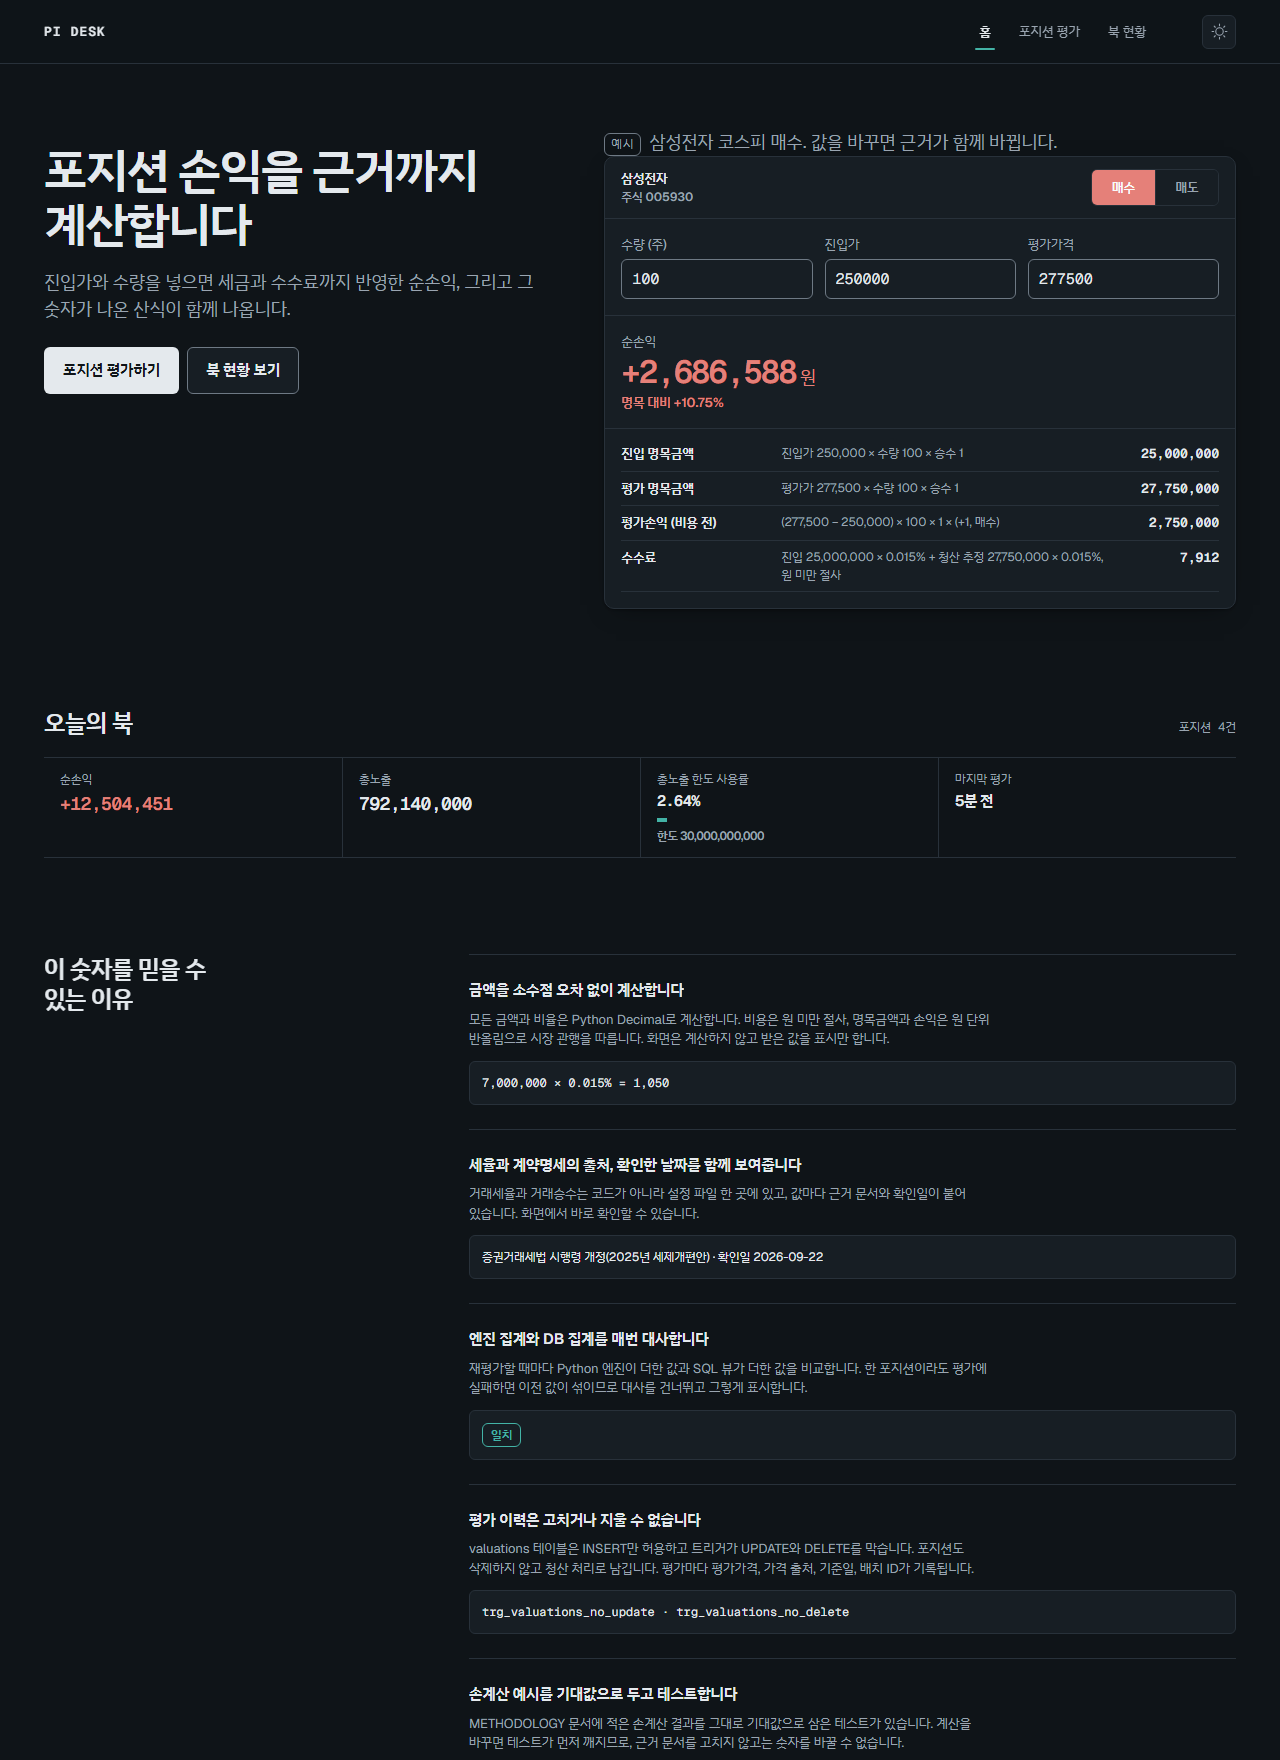
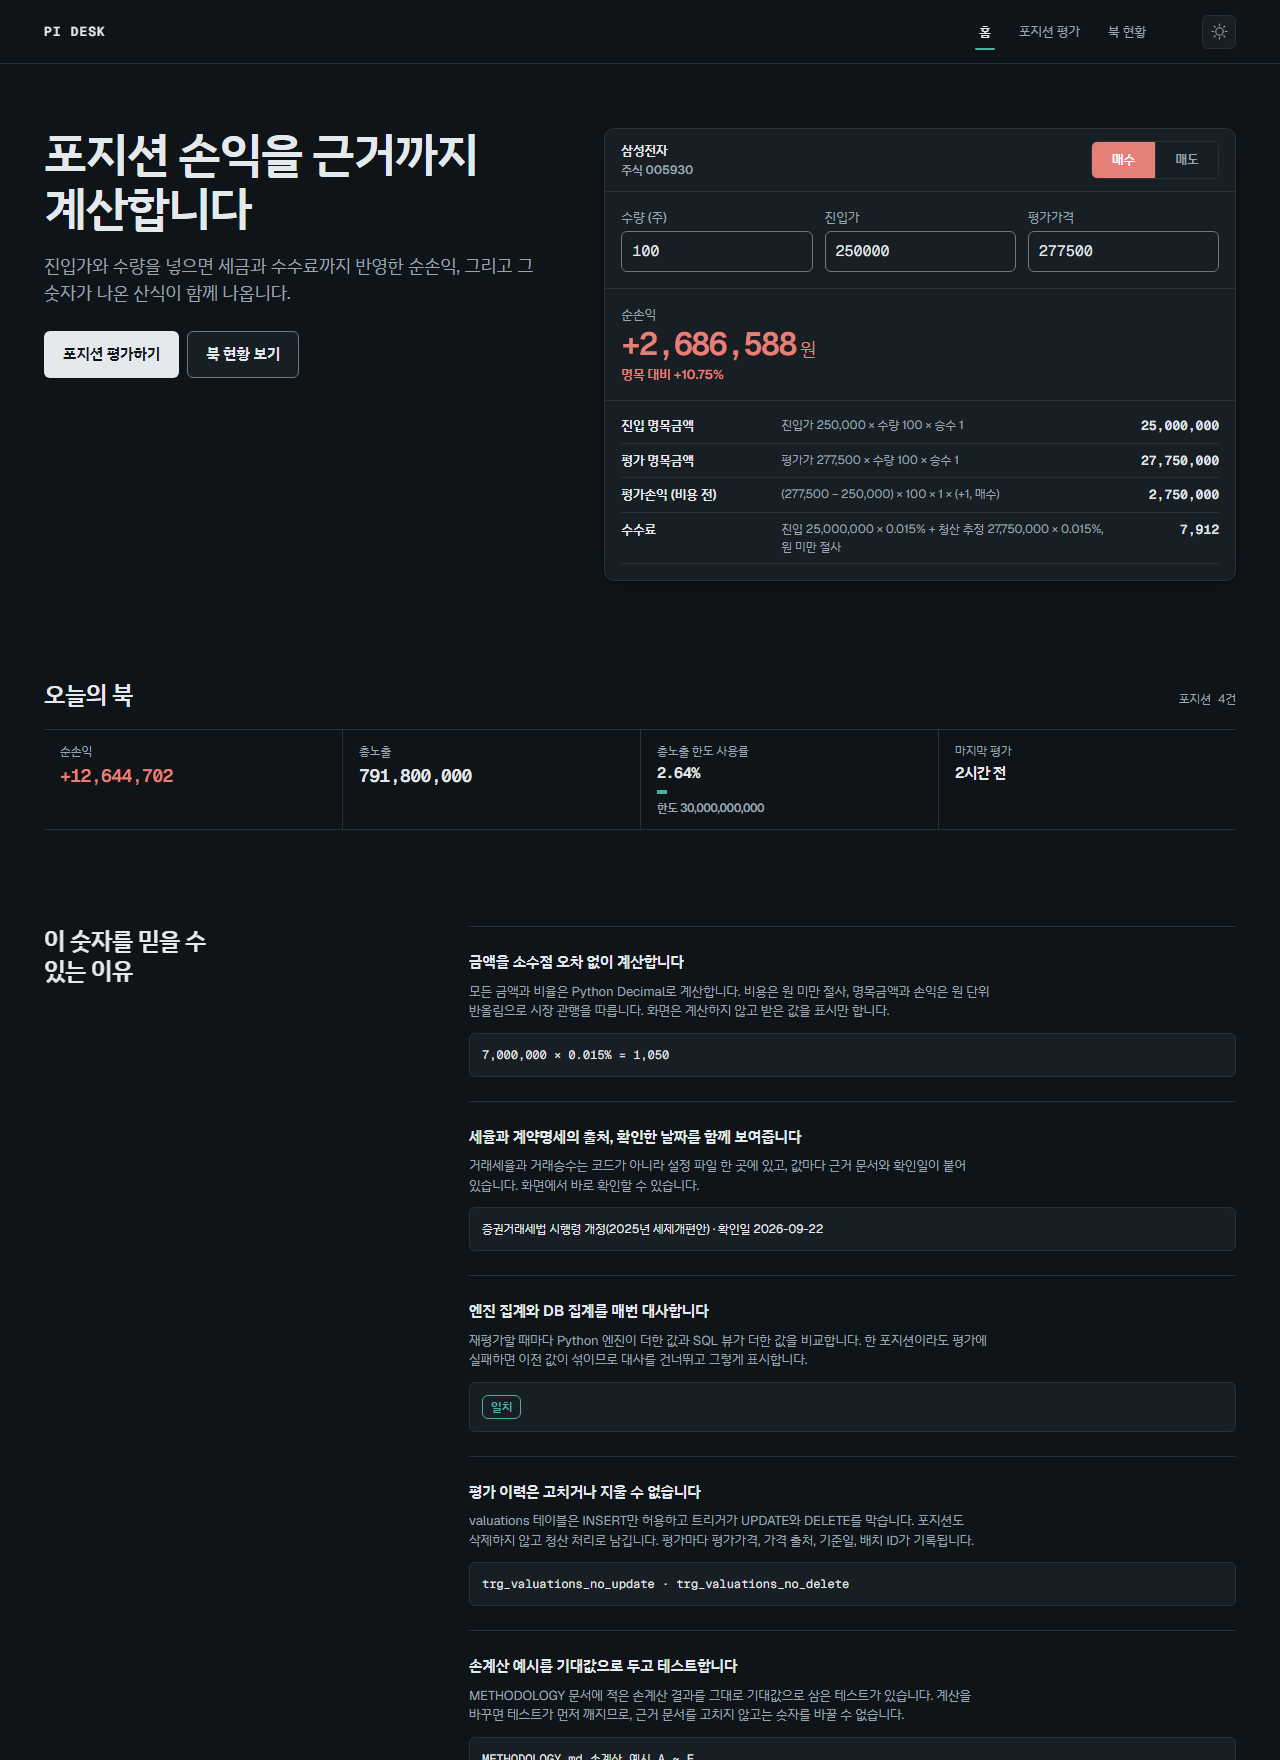
문서: README를 핵심 위주로 간결하게 다시 쓰고 홈 스크린샷 갱신
- 데모 주소 추가, 기능 나열 대신 목적·할 수 있는 일·신뢰 근거 중심으로 정리
- 배포 환경변수, 수동 실행, 마이그레이션 등 세부 절차는 제거
- 로드맵을 "다루지 않는 것"으로 대체 (프로젝트 종료)
- 예시 안내 줄이 빠진 현재 홈 화면으로 스크린샷 4장 교체

diff --git a/README.md b/README.md
@@ -1,288 +1,58 @@
 # PI 데스크 포지션 평가 엔진
 
-증권사 자기매매(PI) 포지션의 시가평가·손익·거래비용·리스크 한도를 계산하고,
-모든 결과 숫자 옆에 산식과 대입값을 함께 보여주는 웹 도구입니다.
+증권사 자기매매(PI) 데스크의 포지션을 넣으면 손익과 거래비용, 리스크 한도 사용률을 계산하고
+**모든 숫자 옆에 그 숫자가 나온 산식과 대입값을 함께 보여주는** 웹 도구입니다.
+
+**데모:** https://frontend-wongihong.vercel.app
+(무료 서버라 한동안 접속이 없었다면 깨어나는 데 최대 1분 걸립니다)
 
 ![홈 화면](docs/screenshots/home-desktop-light.png)
 
-## 주요 기능
-- **체결 기반 포지션 관리**: 포지션을 직접 만들지 않고 체결을 쌓으면 평균단가와 실현손익이 따라온다.
-  분할 매수, 부분 청산, 방향 전환이 자연스럽게 처리된다(이동평균법)
-- **종목 상세**: 체결 이력과 평균단가가 어떻게 움직였는지 한 줄씩. 값은 체결 시점에 저장된 것이다
-- **일별 스냅샷**: 하루 한 번 저장하고 손익 추이를 본다. 덮어쓰지 않으며, 다시 찍으면 정정본이 새 행으로 남는다
-- **주식·선물 포지션 평가**: 평가손익, 수수료, 2026년 기준 증권거래세, 순손익, 수익률, 선물 증거금
-- **계산 근거 표**: 각 단계의 산식·대입값·결과를 한 줄씩 표시. 좁은 화면에서도 숨기지 않습니다
-- **근거 추적**: 계산 근거 줄에 마우스를 올리거나 키보드로 포커스하면, 그 값이 쓴 입력 칸과
-  적용된 설정값이 전표에서 함께 강조됩니다. 반대 방향도 동작합니다.
-  의존 관계는 엔진이 `TraceStep.inputs`로 알려주고 화면은 추측하지 않습니다
-- **실시간 평가**: 전표 입력이 유효해지면 자동으로 다시 계산합니다. `평가하기`는 명시적 재평가용입니다
-- **북 현황**: 포지션 저장, 일괄 재평가(주식은 무료 시세 자동 조회), 총노출·순노출, 한도 점검
-- **한도 사용률**: 총노출·손실·단일 포지션 한도 대비 사용률. 백엔드가 Decimal로 계산합니다
-- **엔진·SQL 대사**: Python 집계와 SQL 뷰 집계가 일치하는지 매번 자동 확인
-- **감사추적**: 평가 이력은 수정·삭제 불가(DB 트리거)
-- **라이트·다크 모드**: 시스템 설정을 따르고 수동 전환도 됩니다. 두 모드 모두 WCAG AA 대비를 지킵니다
+## 왜 만들었나
 
-## 기술 스택
-Python · FastAPI · SQLite(직접 SQL, 윈도 함수 뷰) · pykrx · pytest
-React 19 · TypeScript · Vite · Motion · Phosphor Icons · 네이티브 CSS 토큰(Tailwind 없음)
+평가 도구가 내놓는 숫자는 "왜 이 값인가"에 답할 수 있어야 믿을 수 있습니다.
+이 도구는 예측이나 추천을 하지 않습니다. 주어진 포지션을 정해진 규칙대로 평가하고,
+그 과정을 누구나 따라가며 검산할 수 있게 보여주는 데 집중했습니다.
 
-## 실행 방법 (Windows)
+## 할 수 있는 일
 
-명령 두 개면 됩니다. Node 20.19+ 또는 22.12+ 가 필요합니다.
-
-```powershell
-npm install     # 루트 런처 의존성 (최초 1회)
-npm run setup   # 가상환경, 의존성, DB 이전, 예시 북까지 (최초 1회)
-npm run dev     # 백엔드와 프론트를 함께 실행
-```
-
-http://localhost:5173 에 접속합니다. **Ctrl+C 한 번으로 둘 다 종료됩니다.**
-
-출력에는 `api`와 `web` 접두사가 붙어 어느 쪽 로그인지 바로 구분됩니다.
-한쪽이 죽으면 다른 쪽도 함께 내려갑니다.
-
-`npm run setup`은 이미 되어 있는 단계를 건너뜁니다. 여러 번 실행해도 안전합니다.
-
-| 명령 | 하는 일 |
-|---|---|
-| `npm run setup` | 가상환경 생성, pip install, frontend 의존성, DB 이전, 예시 북 시드 |
-| `npm run dev` | 백엔드(8000)와 프론트(5173)를 함께 실행 |
-| `npm run check` | 테스트, 빌드, 린트를 한 번에 |
-| `npm run seed` | 예시 북 다시 만들기 |
-| `npm run migrate` | 기존 DB를 체결 기반 구조로 이전 |
-
-### 알아두면 좋은 것
-
-**프론트는 백엔드가 뜬 뒤에 시작합니다.** 그러지 않으면 첫 화면이 프록시 오류로
-"백엔드에 연결하지 못했습니다"를 띄우고 새로고침해야 합니다.
-`npm run dev`가 백엔드 포트를 기다렸다가 프론트를 올립니다.
-
-**이전에 남은 개발 서버가 있으면 자동으로 정리합니다.** `uvicorn --reload`는 감시
-프로세스와 작업 프로세스를 따로 띄우는데, 터미널이 강제로 닫히면 작업 프로세스가
-포트를 쥔 채 남습니다. 그 상태로 다시 실행하면 백엔드가 "address already in use"로
-뜨지 않습니다. `npm run dev`가 실행 전에 이 경우를 확인하고 정리합니다.
-다른 프로그램이 포트를 쓰고 있으면 건드리지 않고 무엇인지 알려만 줍니다.
-
-**프로젝트 경로에 공백이 있어도 됩니다.** 실행 파일 경로를 셸 문자열로 조립하지 않고
-Node가 인자 배열로 직접 넘기기 때문입니다(`scripts/run-python.mjs`).
-
-### 수동 실행 (터미널 두 개)
-
-런처 없이 각각 띄우려면 이렇게 합니다.
-
-```powershell
-# 터미널 1 - 백엔드
-cd backend
-py -3 -m venv .venv
-.venv\Scripts\python -m pip install -r requirements.txt
-.venv\Scripts\python -m pytest
-.venv\Scripts\python -m uvicorn app.main:app --reload --port 8000
-
-# 터미널 2 - 프론트
-cd frontend
-npm install
-npm run dev
-```
-
-> Windows에서 `python` 과 `python3` 는 Microsoft Store 스텁일 수 있습니다.
-> 실행은 되지만 아무 일도 하지 않고 끝납니다. 가상환경을 만들 때는 `py -3` 을 쓰세요.
-> `npm run setup` 은 이 경우를 스스로 판별합니다.
-
-## 시연용 예시 북 만들기
-
-`npm run setup` 이 이미 한 번 실행합니다. 북을 다시 만들고 싶을 때 쓰는 명령입니다.
-빈 화면 대신 포지션이 채워진 상태를 보려면 시드 스크립트를 실행합니다.
-FastAPI TestClient로 앱을 프로세스 안에서 호출하므로 **서버를 띄우지 않아도 되고**,
-요청이 실제 API를 그대로 지나가 호가단위 검증 같은 규칙이 모두 적용됩니다.
-
-```powershell
-npm run seed
-```
-
-삼성전자를 두 번에 나눠 사고(평균단가 274,400) 일부를 되팔아 **실현손익이 생긴 상태**를 만듭니다.
-여기에 코스닥 주식 매도, 코스피200 선물 매도, 미니 코스피200 선물 매수를 더해
-재평가와 스냅샷을 한 번씩 실행합니다. 이미 열린 포지션이 있으면 아무것도 하지 않으므로
-여러 번 실행해도 안전합니다. 초기화하려면 `backend/data/trading.db`를 지우고 다시 실행하세요.
-
-> **체결가와 선물 평가가격은 예시값입니다.** 실제 체결가나 정산가가 아닙니다.
-> 주식 평가가격만 무료 시세(pykrx → FinanceDataReader)에서 실제 종가를 받아옵니다.
-> 이 북은 화면을 보여주기 위한 것이지 손익을 주장하기 위한 것이 아닙니다.
-
-## 화면
-
-전표에 값을 넣으면 순손익과 함께 **그 숫자가 나온 산식**이 오른쪽에 그대로 나옵니다.
-아래는 삼성전자 100주를 250,000에 사서 277,500에 평가한 경우입니다.
-
-| | 라이트 | 다크 |
-|---|---|---|
-| 포지션 평가 | ![](docs/screenshots/valuation-desktop-light.png) | ![](docs/screenshots/valuation-desktop-dark.png) |
-| 북 현황 | ![](docs/screenshots/book-desktop-light.png) | ![](docs/screenshots/book-desktop-dark.png) |
-
-북 현황에서는 **확정(실현손익)과 미확정(평가손익)을 그룹 헤더와 1px 세로선으로 갈라** 둡니다.
-성격이 다른 숫자라 한데 섞이면 안 되기 때문입니다.
-
-### 근거 추적
-
-계산 근거 줄에 마우스를 올리거나 키보드로 포커스하면, 그 값이 쓴 입력 칸이 전표에서 함께 강조됩니다.
-아래는 `거래세 (KOSPI)` 줄을 잡은 모습입니다. 시장·수량·평가가격·방향이 강조되고
-**진입가는 강조되지 않습니다.** 매수 포지션의 거래세는 청산 매도 대금(평가가격) 기준이기 때문입니다.
-이 구분은 화면이 짐작한 것이 아니라 엔진이 `TraceStep.inputs`로 알려준 것입니다.
+- **포지션 평가:** 주식과 선물의 평가손익, 수수료, 증권거래세, 순손익을 계산합니다.
+- **근거 확인:** 계산 근거 줄을 짚으면 그 값에 쓰인 입력 칸이 함께 강조됩니다.
+- **체결로 쌓는 북:** 매매 체결을 입력하면 평균단가와 실현손익이 이동평균법으로 갱신됩니다.
+- **북 현황:** 전체 노출과 한도 사용률을 보고, 하루 한 번 스냅샷으로 손익 추이를 남깁니다.
 
 ![근거 추적](docs/screenshots/state-trace-highlight.png)
 
-### 체결 입력과 평균단가 미리보기
+위 화면은 `거래세` 줄을 짚은 모습입니다. 매수 포지션의 거래세는 팔 때의 금액(평가가격)에 붙기 때문에
+진입가는 강조되지 않습니다. 어떤 입력이 쓰였는지는 화면이 추측하지 않고 계산 엔진이 직접 알려줍니다.
 
-이미 보유 중인 종목이면 이번 체결 후 평균단가와 수량이 어떻게 되는지 입력 단계에서 보여줍니다.
-아래는 400주를 274,400에 들고 있는 상태에서 200주를 281,000에 더 사려는 경우로,
-평균단가가 **274,400에서 276,600으로** 올라갑니다.
-저장하지 않는 조회(`POST /api/trades/preview`)라 값을 고치는 동안 계속 갱신됩니다.
+## 숫자를 믿을 수 있는 이유
 
-![평균단가 미리보기](docs/screenshots/state-trade-preview.png)
+- 금액은 소수점 오차 없이 계산하고, 원 미만 처리는 시장 관행을 따릅니다.
+- 세율과 계약승수는 한 곳에 모아 두고 출처와 확인한 날짜를 함께 적었습니다.
+- 재평가할 때마다 두 가지 방식으로 합계를 따로 내어 서로 맞는지 확인합니다.
+- 평가 이력은 고치거나 지울 수 없습니다.
+- 테스트의 기대값은 문서에 적은 손계산 결과를 그대로 씁니다.
 
-### 방향 전환 안내
+## 직접 실행하기 (Windows)
 
-보유 수량을 넘는 반대 방향 체결은 거절하지 않고 **방향 전환**으로 처리합니다(이동평균법 규칙 3).
-다만 실수일 수 있으므로 청산되는 수량과 새로 생기는 수량을 입력 단계에서 알려줍니다.
-경고가 아니라 확인이므로 오류 색을 쓰지 않습니다.
-
-![방향 전환 안내](docs/screenshots/state-trade-flip.png)
-
-### 종목 상세: 평균단가가 어떻게 움직였나
-
-체결 한 건이 한 줄입니다. 분할 매수로 268,000에서 274,400이 되고,
-**부분 청산에서는 평균단가가 바뀌지 않는다**는 것이 그대로 보입니다(규칙 2).
-각 줄의 값은 그 체결 시점에 저장된 것이라 지금 다시 계산하지 않습니다.
-
-![종목 상세](docs/screenshots/state-position-detail.png)
-
-### 그 밖의 상태
-
-빈 북, 로딩 스켈레톤, 입력 오류, 엔진·SQL 대사 결과를 포함한 전체 스크린샷은
-[docs/screenshots](docs/screenshots)에 있습니다(3개 화면 x 1280/375 x 라이트/다크 + 상태 8종).
-
-입력 오류에는 **빨강을 쓰지 않습니다.** 이 앱에서 빨강은 매수와 이익을 뜻하므로
-빨간 오류 박스는 "이익"으로 오독될 여지가 있습니다. 오류와 경고는 오커 계열로 통일하고
-아이콘과 위치로 구분합니다.
-
-직접 다시 찍으려면 dev 서버를 띄운 상태에서 아래를 실행합니다(설치된 Chrome을 headless로 씁니다).
+Python 3.11 이상과 Node 20.19 이상이 필요합니다.
 
 ```powershell
-cd backend
-.venv\Scripts\python -m scripts.shoot_screenshots
-.venv\Scripts\python -m scripts.shoot_states
+npm install
+npm run setup   # 최초 1회: 가상환경, 의존성, 예시 데이터
+npm run dev     # http://localhost:5173
 ```
 
-빈 북과 로딩 스켈레톤은 **비어 있는 임시 DB를 띄운 백엔드**를 상대로 따로 찍습니다.
-화면에서 응답을 가로채 흉내 내지 않습니다. 가짜 데이터로 만든 화면을 문서에 싣지 않기 위해서입니다.
+예시 데이터의 체결가와 선물 가격은 화면을 보여주기 위한 값이며, 주식 시세만 무료 소스에서 실제 종가를 가져옵니다.
 
-## 배포
+## 더 보기
 
-프론트는 Vercel, 백엔드는 Render에 올리는 구조다. 도메인이 서로 다르므로
-프론트가 백엔드 주소를 환경변수로 받고, 백엔드는 그 도메인을 CORS로 허용한다.
+- [METHODOLOGY.md](METHODOLOGY.md): 산식, 세율 출처, 손계산 예시
+- [DESIGN.md](DESIGN.md): 색·글꼴·모션을 정한 이유
+- [docs/screenshots](docs/screenshots): 모든 화면과 상태 (라이트·다크, 데스크톱·모바일)
 
-```
-브라우저 → Vercel (정적 파일)  ──VITE_API_BASE_URL──→  Render (FastAPI + SQLite)
-                                  CORS: ALLOWED_ORIGINS
-```
+## 다루지 않는 것
 
-### 환경변수
-
-**프론트 (Vercel)**
-
-| 변수 | 값 | 설명 |
-|---|---|---|
-| `VITE_API_BASE_URL` | `https://<render-앱>.onrender.com` | 비워 두면 `/api` 상대경로를 쓴다(로컬 개발). 끝에 슬래시나 `/api`를 붙이지 않는다 |
-
-`frontend/.env.example`에 설명이 있다. 로컬에서 시험하려면 `.env.local`로 복사한다.
-
-**백엔드 (Render)**
-
-| 변수 | 기본값 | 설명 |
-|---|---|---|
-| `ALLOWED_ORIGINS` | `http://localhost:5173,http://127.0.0.1:5173` | CORS 허용 도메인, 쉼표 구분. Vercel 주소를 넣는다 |
-| `PORT` | `8000` | Render가 주입한다 |
-| `DEMO_MODE` | `false` | 켜면 화면 상단에 데모 안내를 띄우고 포지션 수에 상한을 건다 |
-| `DEMO_MAX_POSITIONS` | `50` | 데모 모드의 포지션 상한 |
-| `AUTO_SEED` | `DEMO_MODE`와 같음 | 시작할 때 DB가 비어 있으면 예시 북을 만든다 |
-| `TRE_DB_PATH` | `backend/data/trading.db` | DB 파일 경로 |
-
-환경변수를 하나도 주지 않으면 지금까지와 똑같이 로컬 개발 설정으로 동작한다.
-
-### Render
-
-`render.yaml`이 저장소 루트에 있다. 시작 명령은 다음과 같다.
-
-```
-uvicorn app.main:app --host 0.0.0.0 --port $PORT
-```
-
-Python 버전은 `backend/runtime.txt`와 `render.yaml`에 `3.12.8`로 고정했다.
-`ALLOWED_ORIGINS`는 Vercel 주소를 배포한 뒤에 Render 대시보드에서 채운다(미리 알 수 없다).
-
-### Vercel
-
-프로젝트 루트를 `frontend`로 지정하면 `npm run build`와 `dist` 가 자동으로 잡힌다.
-환경변수에 `VITE_API_BASE_URL`을 넣고 다시 배포한다.
-Vite는 빌드 시점에 값을 번들에 넣으므로, 값을 바꾸면 **다시 배포해야** 반영된다.
-
-### 무료 플랜에서 생기는 일
-
-**백엔드가 잠든다.** 15분쯤 요청이 없으면 Render 무료 플랜은 잠들고, 깨어나는 데
-최대 1분 걸린다. 그동안 화면이 비어 보이면 고장으로 오해하기 쉬우므로,
-앱이 먼저 `/api/health`를 호출해 깨우고 **"데모 서버를 깨우는 중입니다.
-최대 1분 걸릴 수 있습니다"** 를 띄운다. 실패하면 다시 시도 버튼을 준다.
-로컬 개발에서는 첫 호출이 즉시 성공하므로 이 화면이 보이지 않는다.
-
-**디스크가 초기화된다.** 재시작하면 SQLite 파일이 사라진다. 그래서 `AUTO_SEED`가
-켜져 있으면 시작할 때 DB가 비었는지 보고 예시 북을 다시 만든다.
-이미 데이터가 있으면 건너뛴다. 시드는 라우트와 같은 경로를 지나므로
-호가단위 검증 같은 규칙이 그대로 적용된다.
-
-### 배포 후 확인할 것
-
-**pykrx는 네이버에서 데이터를 가져온다. 클라우드 IP에서는 차단되거나 느릴 수 있다.**
-배포한 뒤 반드시 확인한다.
-
-```
-curl https://<render-앱>.onrender.com/api/market/quote/005930
-```
-
-- **되면**: 그대로 쓰면 된다.
-- **안 되면**: 시세 조회만 실패하고 나머지는 모두 동작한다. 확인할 것은 다음과 같다.
-  - 북 현황에 시드 데이터(평균단가, 실현손익, 체결 이력)가 보이는지.
-    이 값들은 시세와 무관하게 계산되므로 영향을 받지 않는다.
-  - 선물처럼 평가가격을 직접 입력해 평가가 되는지.
-  - 포지션 평가 화면에서 평가가격을 손으로 넣어 계산과 근거가 나오는지.
-  - 실패 메시지가 이해 가능한지. 예:
-    `005930 시세를 가져오지 못했습니다 (pykrx: 데이터 없음; FinanceDataReader: 데이터 없음).`
-    두 소스를 모두 시도했다는 사실과 무엇을 하면 되는지가 드러나야 한다.
-
-시세가 막히면 `AUTO_SEED`가 만든 체결은 그대로 쌓이고 평가만 비어 있다.
-화면에는 "아직 평가하지 않음"으로 표시되고, 사용자가 평가가격을 넣어 재평가할 수 있다.
-
-## 기존 DB 이전
-
-체결 기반 구조로 바뀌기 전에 만든 DB가 있다면 한 번 옮겨야 합니다.
-
-```powershell
-cd backend
-.venv\Scripts\python -m scripts.migrate_to_trades
-```
-
-DB를 `.bak`으로 백업한 뒤 기존 포지션을 체결 1건씩으로 바꿉니다.
-포지션 id를 보존하므로 기존 평가 이력(`valuations`)이 그대로 유효합니다.
-이미 옮긴 DB에 다시 실행하면 아무것도 하지 않습니다.
-
-## 계산 근거
-산식, 세율 출처, 손계산 예시는 [METHODOLOGY.md](METHODOLOGY.md)에 있습니다.
-테스트의 기대값은 모두 이 문서의 손계산 값입니다.
-
-## 디자인 시스템
-색·글꼴·간격·모션의 결정과 근거는 [DESIGN.md](DESIGN.md)에 있습니다.
-라이트·다크 팔레트의 대비는 42개 조합을 계산해 전부 WCAG AA를 통과시켰습니다.
-
-## 저장소
-https://github.com/HWGfactory/trading-risk-engine
-
-## 로드맵
-옵션(블랙-숄즈·그릭스), 채권(듀레이션·DV01), 북 VaR, Claude API 리스크 코멘트, MCP 서버화
+옵션·채권 평가와 VaR는 이 프로젝트의 범위에 넣지 않았습니다.
+리스크 한도 값은 시연용 예시이며, 실제 한도는 회사마다 다릅니다.
